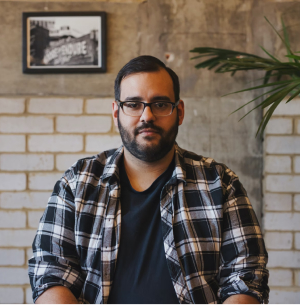
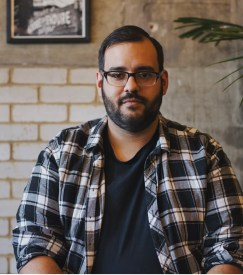
ajout du html

diff --git a/index.html b/index.html
@@ -7,7 +7,9 @@
     <meta name="viewport" content="width=device-width, initial-scale=1.0">
     <title>Agenceco</title>
     <link rel="stylesheet" href="style.css">
-    <link rel="stylesheet" href="https://cdnjs.cloudflare.com/ajax/libs/font-awesome/4.7.0/css/font-awesome.css" integrity="sha512-5A8nwdMOWrSz20fDsjczgUidUBR8liPYU+WymTZP1lmY9G6Oc7HlZv156XqnsgNUzTyMefFTcsFH/tnJE/+xBg==" crossorigin="anonymous" referrerpolicy="no-referrer" />
+    <link rel="stylesheet" href="https://cdnjs.cloudflare.com/ajax/libs/font-awesome/4.7.0/css/font-awesome.css"
+        integrity="sha512-5A8nwdMOWrSz20fDsjczgUidUBR8liPYU+WymTZP1lmY9G6Oc7HlZv156XqnsgNUzTyMefFTcsFH/tnJE/+xBg=="
+        crossorigin="anonymous" referrerpolicy="no-referrer" />
 </head>
 
 <body>
@@ -29,35 +31,40 @@
         <div id="plante">
             <img src="resources/rodion-kutsaev-049M_crau5k-unsplash 1.JPG" alt="Feuilles de fleurs" />
 
-            <p>Bienvenue dans votre<strong>agence web ecologique</strong></p>
-            <i class="fa fa-phone" aria-hidden="true"></i>
+            <p class="text-center">Bienvenue dans votre<strong>agence web ecologique</strong></p>
         </div>
     </section>
 
-    <section>
+    <section class="container">
         <article>
-            <h1><strong>Notre equipe</strong></h1>
-            <p>Lorem ipsum dolor sit amet, consectetur adipiscing elit. Donec sed leo i nisi vehicula<br>
+            <h1 class="text-center"><strong>Notre equipe</strong></h1>
+            <p class="text-center">Lorem ipsum dolor sit amet, consectetur adipiscing elit. Donec sed leo i nisi
+                vehicula<br>
                 bibendum. Aliquam sit amet blandit nisi, sodales molestie.</p>
         </article>
 
-        <div id="Julie">
-            <img src="resources/image1.jpg" alt="Personne" />
-            <h1><strong>Julie Dupond</strong></h1>
-            <p>Consectetur adipiscing elit.<br />
-                Donec sed leo in nisi vehicula bibendum</p>
+
+        <div class="row">
+            <div id="Julie" class="col-4 text-center">
+                <img class="rounded" src="resources/image1.jpg" alt="Personne" />
+                <h1><strong>Julie Dupond</strong></h1>
+                <p>Consectetur adipiscing elit.<br />
+                    Donec sed leo in nisi vehicula bibendum</p>
+            </div>
+            <div id="Romeo" class="col-4 text-center">
+                <img class="rounded" src="resources/image 2.JPG" alt="Personne" />
+                <h1><strong>Romeo Sylla</strong></h1>
+                <p>Consectetur adipiscing elit.<br />
+                    Donec des leo in nisi vehicula bibendum</p>
+            </div>
+            <div class="rounded" id="Javier" class="col-4 text-center">
+                <img src="resources/image 3.JPG" alt="Personne" />
+                <p>Consectetur adipiscing elit.<br />
+                    Donec des leo in nisi vehicula bibendum</p>
+            </div>
         </div>
-        <div id="Romeo">
-            <img src="resources/image 2.JPG" alt="Personne" />
-            <h1><strong>Romeo Sylla</strong></h1>
-            <p>Consectetur adipiscing elit.<br />
-                Donec des leo in nisi vehicula bibendum</p>
-        </div>
-        <div id="Javier">
-            <img src="resource/image 3.JPG" alt="Personne" />
-            <p>Consectetur adipiscing elit.<br />
-                Donec des leo in nisi vehicula bibendum</p>
-        </div>
+
+
     </section>
 
     <section>
@@ -77,10 +84,10 @@
 
     <section>
         <div id="Site web" <h1><strong>Notre services</strong></h1>
-            <img src="resource/Vector.JPG" alt="Site web" />
+            <img src="resources/Vector.JPG" alt="Site web" />
             <p>Creation de sites web</p>
         </div>
-        <div id="Audit" <img src="resource/Vector-1.JPG" alt="Audit" />
+        <div id="Audit" <img src="resources/Vector-1.JPG" alt="Audit" />
         <p>Audit qualite</p>
         </div>
     </section>
@@ -92,39 +99,50 @@
 
     <section>
         <aside>
-            <img src="resource/jason-goodman-Oalh2MojUuk-unsplash 1.JPG" alt="Reunion" />
+            <img src="resources/jason-goodman-Oalh2MojUuk-unsplash 1.JPG" alt="Reunion" />
         </aside>
 
         <aside>
             <h1>><strong>A propos de nous</strong></h1>
             <p>Lorem ipsum dolor sit amet, consectetur adipiscing elit.<br />
                 Donec sed leo in adipscing.</p>
-            <p><img src="resource/Vector-2.JPG" alt="Eco" title="Ecologique" /><img src="resource/Vector-3.JPG"
-                    alt="Responsable" title="Responsable" /><img src="resource/Vector-4.JPG" alt="24h"
+            <p><img src="resources/Vector-2.JPG" alt="Eco" title="Ecologique" /><img src="resources/Vector-3.JPG"
+                    alt="Responsable" title="Responsable" /><img src="resources/Vector-4.JPG" alt="24h"
                     title="24/7 Assistance" < />
         </aside>
 
         <h1><strong>Notre galerie</strong></h1>
         <p>Lorem ipsum dolor sit amet, consectetur adipiscing elit. Donec sed leo in nisi vehicula bibendum.Aliquam sit
             amet blandit nisi, sodales molestie.</p>
-        <img src="resource/kevin-bhagat-zNRITe8NPqY-unsplash 1.JPG" alt="Bureau" />
+        <img src="resources/kevin-bhagat-zNRITe8NPqY-unsplash 1.JPG" alt="Bureau" />
         <a href="#" class="flech gauche" </a>
             <a href="#" class="flech droit" </a>
     </section>
 
     <footer>
-        <div id="Content" <h1>consectetur</h1>
+        <div id="Content" 
+            <h1>Content</h1>
+            <p>consectetur</p>
             <p>adipiscing</p>
         </div>
-        <div id="Informations" <h1>consectetur</h1>
+        <div id="Informations" 
+            <h1>Informations</h1>
+            <p>consectetur</p>
             <p>adipiscing</p>
         </div>
-        <div id="Services" <h1>consectetur</h1>
+        <div id="Services" 
+            <h1>Services</h1>
+            <p>consectetur</p>
             <p>adipiscing</p>
         </div>
-        <div id="Aide" <h1>consectetur</h1>
+        <div id="Aide" 
+            <h1>Aide</h1>
+            <p>consectetur</p>
             <p>adipiscing</p>
+
+            <i class="fa fa-phone" aria-hidden="true"></i>
         </div>
+
 
     </footer>
 </body>

diff --git a/style.css b/style.css
@@ -1,13 +1,38 @@
+@import url('https://fonts.googleapis.com/css2?family=Poppins:wght@200;300;400&display=swap');
+
 /* Header */
+
+body{
+    margin: 0;
+    font-family: 'Poppins', sans-serif;
+}
+.container{
+  padding-left: 10%;
+  padding-right: 10%; 
+}
+.text-center{
+    text-align: center;
+}
 
 header
 {
     justify-content: space-between;
     align-items: flex-end;
+    padding-left: 5%;
+    padding-right: 5%;
+}
+#plante img{
+    width: 100%;
 }
 
 .row{
     display: flex;
+}
+.col-4{
+    width: 33.33%;
+}
+.rounded{
+    border-radius: 50%;
 }
 
 
